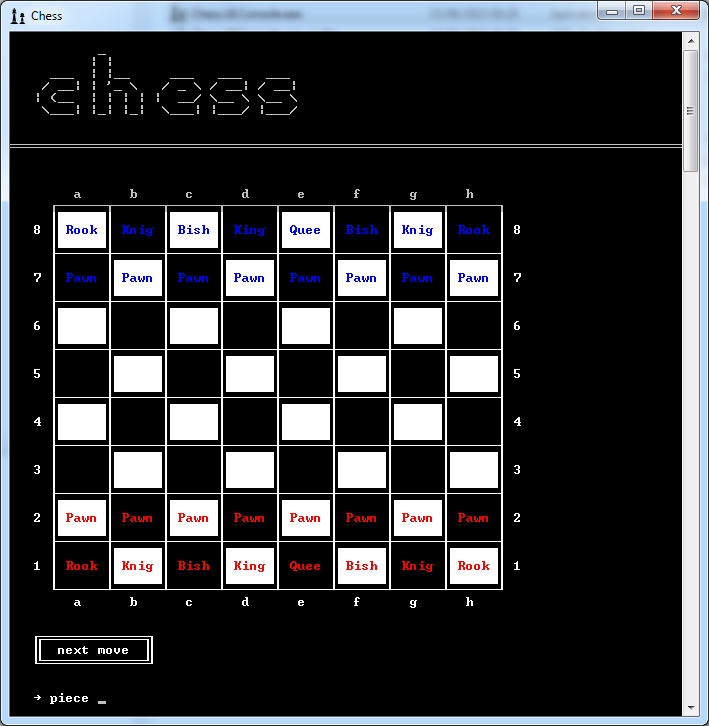
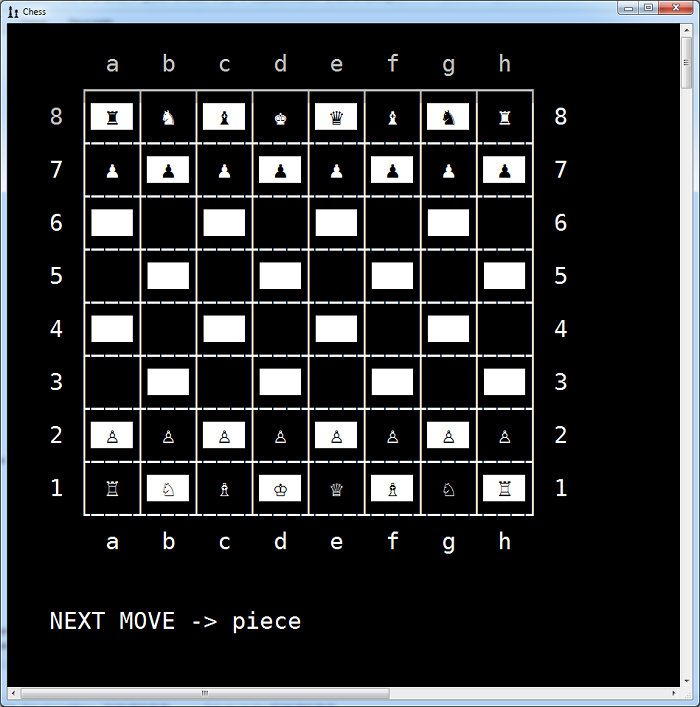
atualização das imagens das peças

diff --git a/src/Chess.UI.Console/Program.cs b/src/Chess.UI.Console/Program.cs
@@ -1,4 +1,5 @@
-using Chess.UI.Console.IoC;
+using System.Text;
+using Chess.UI.Console.IoC;
 using Chess.UI.Console.Scenarios;
 
 namespace Chess.UI.Console
@@ -7,6 +8,40 @@ namespace Chess.UI.Console
     {
         static void Main()
         {
+            //https://msdn.microsoft.com/en-us/library/windows/desktop/dd317756(v=vs.85).aspx
+            //var encs = new[]
+            //{
+            //    037, 437, 500, 708, 709, 710, 720, 737, 775, 850, 852, 855, 857, 858, 860, 861, 862, 863, 864, 865, 866,
+            //    869, 870, 874, 875, 932, 936, 949, 950, 1026, 1047, 1140, 1141, 1142, 1143, 1144, 1145, 1146, 1147, 1148, 
+            //    1149, 1200, 1201, 1250, 1251, 1252, 1253, 1254, 1255, 1256, 1257, 1258, 1361, 10000, 10001, 10002, 10003, 
+            //    10004, 10005, 10006, 10007, 10008, 10010, 10017, 10021, 10029, 10079, 10081, 10082, 12000, 12001, 20000, 
+            //    20001, 20002, 20003, 20004, 20005, 20105, 20106, 20107, 20108, 20127, 20261, 20269, 20273, 20277, 20278, 
+            //    20280, 20284, 20285, 20290, 20297, 20420, 20423, 20424, 20833, 20838, 20866, 20871, 20880, 20905, 20924, 
+            //    20932, 20936, 20949, 21025, 21027, 21866, 28591, 28592, 28593, 28594, 28595, 28596, 28597, 28598, 28599, 
+            //    28603, 28605, 29001, 38598, 50220, 50221, 50222, 50225, 50227, 50229, 50930, 50931, 50933, 50935, 50936, 
+            //    50937, 50939, 51932, 51936, 51949, 51950, 52936, 54936, 57002, 57003, 57004, 57005, 57006, 57007, 57008, 
+            //    57009, 57010, 57011, 65000, 65001
+            //};
+
+            //foreach (var enc in encs)
+            //{
+            //    try
+            //    {
+            //        System.Console.OutputEncoding = Encoding.GetEncoding(65001);
+            //        ConsoleHelper.SetConsoleFont(72);
+            //        System.Console.WriteLine("{0} == ♔♕♖♗♘♙.", enc);
+            //        System.Console.WriteLine("{0} == ♚♛♜♝♞♟.", enc);
+            //        System.Console.ReadKey();
+            //    }
+            //    catch
+            //    {
+            //        System.Console.WriteLine("Missing {0}", enc);
+            //        System.Console.ReadKey();
+            //    }
+            //}
+
+            System.Console.OutputEncoding = Encoding.GetEncoding(65001);
+
             var container = Container.GetContainer();
             using (container.BeginScope())
             {

diff --git a/src/Chess.UI.Console/Libs/Match/Chessboard.cs b/src/Chess.UI.Console/Libs/Match/Chessboard.cs
@@ -24,9 +24,9 @@ namespace Chess.UI.Console.Libs.Match
             var toggle = true;
             foreach (var rank in game.Ranks)
             {
-                for (var i = 0; i < 3; i++)
+                for (var i = 0; i < 1; i++)
                 {
-                    Rank(rank, toggle, game, !i.Equals(1));
+                    Rank(rank, toggle, game);
                 }
 
                 if (game.Ranks.IsLast(rank))
@@ -46,25 +46,18 @@ namespace Chess.UI.Console.Libs.Match
 
         private static void Clear()
         {
-            System.Console.SetCursorPosition(0, 13);
+            System.Console.SetCursorPosition(0, 1);
         }
 
-        private void Rank(char rank, bool toggle, IGame game, bool lacuna)
+        private void Rank(char rank, bool toggle, IGame game)
         {
-            System.Console.Write("   {0} ", lacuna ? ' ' : rank);
+            System.Console.Write("   {0} ", rank);
 
             foreach (var file in game.Files)
             {
                 _color.Toggle(toggle);
 
-                if (lacuna)
-                {
-                    File(game);
-                }
-                else
-                {
-                    File(game, file, rank);
-                }
+                File(game, file, rank);
 
                 toggle = !toggle;
 
@@ -72,7 +65,7 @@ namespace Chess.UI.Console.Libs.Match
             }
 
             _text.Pipe();
-            System.Console.Write(" {0} ", lacuna ? ' ' : rank);
+            System.Console.Write(" {0} ", rank);
             _text.NewLine();
         }
 
@@ -94,8 +87,6 @@ namespace Chess.UI.Console.Libs.Match
 
         private static void Piece(Piece piece)
         {
-            System.Console.ForegroundColor = piece.Player == 1 ? ConsoleColor.Red : ConsoleColor.Blue;
-
             System.Console.Write(" {0} ", piece.Name);
 
             System.Console.ForegroundColor = ConsoleColor.White;
@@ -103,7 +94,7 @@ namespace Chess.UI.Console.Libs.Match
 
         private static void Lacuna()
         {
-            System.Console.Write("      ");
+            System.Console.Write("   ");
         }
 
         private void HeaderOrFooter(IGame game)
@@ -112,7 +103,7 @@ namespace Chess.UI.Console.Libs.Match
 
             foreach (var file in game.Files)
             {
-                System.Console.Write("   {0}   ", file);
+                System.Console.Write("  {0} ", file);
             }
 
             _text.NewLine();

diff --git a/src/Chess.UI.Console/Scenarios/Matches/Match.cs b/src/Chess.UI.Console/Scenarios/Matches/Match.cs
@@ -11,7 +11,10 @@ namespace Chess.UI.Console.Scenarios.Matches
     {
         protected readonly Chessboard Chessboard;
 
-        protected Match() { }
+        protected Match()
+        {
+
+        }
 
         public Match(IGameMultiplayer game, Chessboard chessboard, IWriter writer, IReader reader, IScreen screen)
             : base(game, writer, reader, screen)
@@ -23,13 +26,9 @@ namespace Chess.UI.Console.Scenarios.Matches
         {
             ClearNextMove();
 
-            Screen.SetCursorPosition(0, 49);
-            Writer.NewLine();
-            Writer.WriteInsideTheBox("next move");
-            Writer.NewLine();
-            Writer.NewLine();
+            Screen.SetCursorPosition(0, 22);
 
-            Writer.WriteWithSleep("   {0} piece ", ArrowRight);
+            Writer.WriteWithSleep("   NEXT MOVE -> piece ");
             var file = GetFile();
             var rank = GetRank();
             var piecePosition = new string(new[] { file, rank });
@@ -53,12 +52,8 @@ namespace Chess.UI.Console.Scenarios.Matches
 
         private void ClearNextMove()
         {
-            Screen.SetCursorPosition(0, 49);
-            for (var i = 0; i < 7; i++)
-            {
-                Writer.Erase();
-                Writer.NewLine();
-            }
+            Screen.SetCursorPosition(0, 22);
+            Writer.Erase();
         }
 
         private char GetFile()

diff --git a/src/Chess.UI.Console/Scenarios/Scenario.cs b/src/Chess.UI.Console/Scenarios/Scenario.cs
@@ -5,29 +5,10 @@ namespace Chess.UI.Console.Scenarios
 {
     public class Scenario
     {
-        protected const char ArrowRight = (char)26;
-
         protected readonly IGameMultiplayer Game;
         protected readonly IWriter Writer;
         protected readonly IReader Reader;
         protected readonly IScreen Screen;
-
-        protected string Title
-        {
-            get
-            {
-                return @"
-           _                        
-          | |                       
-     ___  | |__     ___   ___   ___ 
-    / __| | '_ \   / _ \ / __| / __|
-   | (__  | | | | |  __/ \__ \ \__ \
-    \___| |_| |_|  \___| |___/ |___/
-  
-
-════════════════════════════════════════════════════════════════════════════════════";
-            }
-        }
 
         protected Scenario() { }
 
@@ -42,10 +23,6 @@ namespace Chess.UI.Console.Scenarios
         protected void Setup()
         {
             Screen.Clean();
-            Writer.Write(Title);
-            Writer.NewLine();
-            Writer.NewLine();
-            Writer.NewLine();
         }
     }
 }

diff --git a/src/Chess.UI.Console/Scenarios/Main.cs b/src/Chess.UI.Console/Scenarios/Main.cs
@@ -15,7 +15,7 @@ namespace Chess.UI.Console.Scenarios
             : base(game, writer, reader, screen)
         {
             screen.Title = "Chess";
-            screen.Size = new Size { Height = 57, Width = 84 };
+            screen.Size = new Size { Height = 25, Width = 48 };
 
             _options = new Dictionary<char, Action>
             {
@@ -39,7 +39,7 @@ namespace Chess.UI.Console.Scenarios
             Writer.NewLine();
             Writer.WriteOption("3", "connect an one opponent");
             Writer.NewLine();
-            Writer.WriteWithSleep("   {0} option: ", ArrowRight);
+            Writer.WriteWithSleep("   option: ");
 
             var option = ReadOption();
             _options[option]();

diff --git a/src/Chess.UI.Console/Libs/Match/Writer.cs b/src/Chess.UI.Console/Libs/Match/Writer.cs
@@ -1,5 +1,6 @@
 using System;
 using System.Collections.Generic;
+using System.Net.Sockets;
 
 namespace Chess.UI.Console.Libs.Match
 {
@@ -30,11 +31,14 @@ namespace Chess.UI.Console.Libs.Match
 
         private void Divider(char leftCorner, char rightCorner, char separator)
         {
+            const int space = 3;
+            const int block = 8;
+
             System.Console.Write("     {0}", leftCorner);
 
-            for (var i = 0; i < 8; i++)
+            for (var i = 0; i < block; i++)
             {
-                for (var j = 0; j < 6; j++)
+                for (var j = 0; j < space; j++)
                 {
                     Dash();
                 }

diff --git a/test/Chess.Test/Pieces/BishopTests.cs b/test/Chess.Test/Pieces/BishopTests.cs
@@ -24,10 +24,13 @@ namespace Chess.Test.Pieces
             _bishop = new Bishop(1, _positionStub.Object, _chessboardStub.Object, _validatorMock.Object);
         }
 
-        [Test]
-        public void Name_DeveRetornarNomeFormatado()
+        [TestCase(1, "♗")]
+        [TestCase(2, "♝")]
+        public void Name_DadoJogador_DeveRetornarPeca(int player, string piece)
         {
-            _bishop.Name.Should().Be("Bish");
+            _bishop = new Bishop(player, _positionStub.Object, _chessboardStub.Object, _validatorMock.Object);
+
+            _bishop.Name.Should().Be(piece);
         }
 
         [Test]

diff --git a/test/Chess.Test/Pieces/KnightTests.cs b/test/Chess.Test/Pieces/KnightTests.cs
@@ -24,10 +24,13 @@ namespace Chess.Test.Pieces
             _knight = new Knight(1, _positionStub.Object, _chessboardStub.Object, _validatorMock.Object);
         }
 
-        [Test]
-        public void Name_DeveRetornarNomeFormatado()
+        [TestCase(1, "♘")]
+        [TestCase(2, "♞")]
+        public void Name_DadoJogador_DeveRetornarPeca(int player, string piece)
         {
-            _knight.Name.Should().Be("Knig");
+            _knight = new Knight(player, _positionStub.Object, _chessboardStub.Object, _validatorMock.Object);
+
+            _knight.Name.Should().Be(piece);
         }
 
         [Test]

diff --git a/test/Chess.Test/Pieces/QueenTests.cs b/test/Chess.Test/Pieces/QueenTests.cs
@@ -24,10 +24,13 @@ namespace Chess.Test.Pieces
             _queen = new Queen(1, _positionStub.Object, _chessboardStub.Object, _validatorMock.Object);
         }
 
-        [Test]
-        public void Name_DeveRetornarNomeFormatado()
+        [TestCase(1, "♕")]
+        [TestCase(2, "♛")]
+        public void Name_DadoJogador_DeveRetornarPeca(int player, string piece)
         {
-            _queen.Name.Should().Be("Quee");
+            _queen = new Queen(player, _positionStub.Object, _chessboardStub.Object, _validatorMock.Object);
+
+            _queen.Name.Should().Be(piece);
         }
 
         [Test]

diff --git a/test/Chess.Test/Pieces/KingTests.cs b/test/Chess.Test/Pieces/KingTests.cs
@@ -24,10 +24,13 @@ namespace Chess.Test.Pieces
             _king = new King(1, _positionStub.Object, _chessboardStub.Object, _validatorMock.Object);
         }
 
-        [Test]
-        public void Name_DeveRetornarNomeFormatado()
+        [TestCase(1, "♔")]
+        [TestCase(2, "♚")]
+        public void Name_DadoJogador_DeveRetornarPeca(int player, string piece)
         {
-            _king.Name.Should().Be("King");
+            _king = new King(player, _positionStub.Object, _chessboardStub.Object, _validatorMock.Object);
+
+            _king.Name.Should().Be(piece);
         }
 
         [Test]

diff --git a/test/Chess.Test/Pieces/PawnTests.cs b/test/Chess.Test/Pieces/PawnTests.cs
@@ -24,10 +24,13 @@ namespace Chess.Test.Pieces
             _pawn = new Pawn(1, _positionStub.Object, _chessboardStub.Object, _validatorMock.Object);
         }
 
-        [Test]
-        public void Name_DeveRetornarNomeFormatado()
+        [TestCase(1, "♙")]
+        [TestCase(2, "♟")]
+        public void Name_DadoJogador_DeveRetornarPeca(int player, string piece)
         {
-            _pawn.Name.Should().Be("Pawn");
+            _pawn = new Pawn(player, _positionStub.Object, _chessboardStub.Object, _validatorMock.Object);
+
+            _pawn.Name.Should().Be(piece);
         }
 
         [Test]

diff --git a/test/Chess.Test/Pieces/RookTests.cs b/test/Chess.Test/Pieces/RookTests.cs
@@ -24,10 +24,13 @@ namespace Chess.Test.Pieces
             _rook = new Rook(1, _positionStub.Object, _chessboardStub.Object, _validatorMock.Object);
         }
 
-        [Test]
-        public void Name_DeveRetornarNomeFormatado()
+        [TestCase(1, "♖")]
+        [TestCase(2, "♜")]
+        public void Name_DadoJogador_DeveRetornarPeca(int player, string piece)
         {
-            _rook.Name.Should().Be("Rook");
+            _rook = new Rook(player, _positionStub.Object, _chessboardStub.Object, _validatorMock.Object);
+
+            _rook.Name.Should().Be(piece);
         }
 
         [Test]
